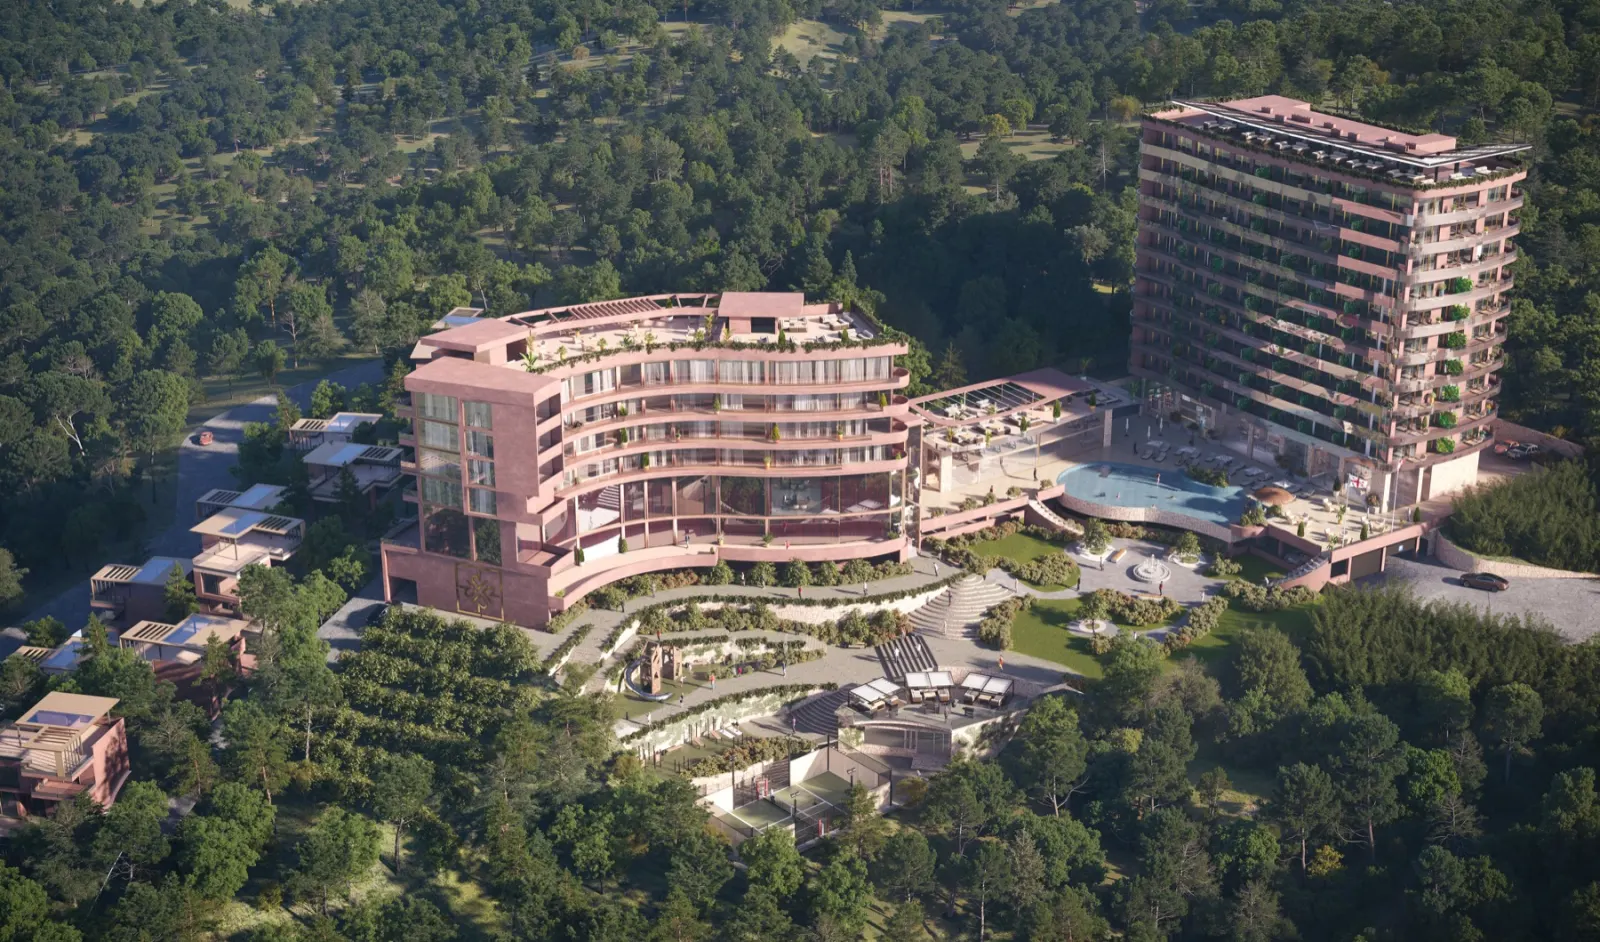
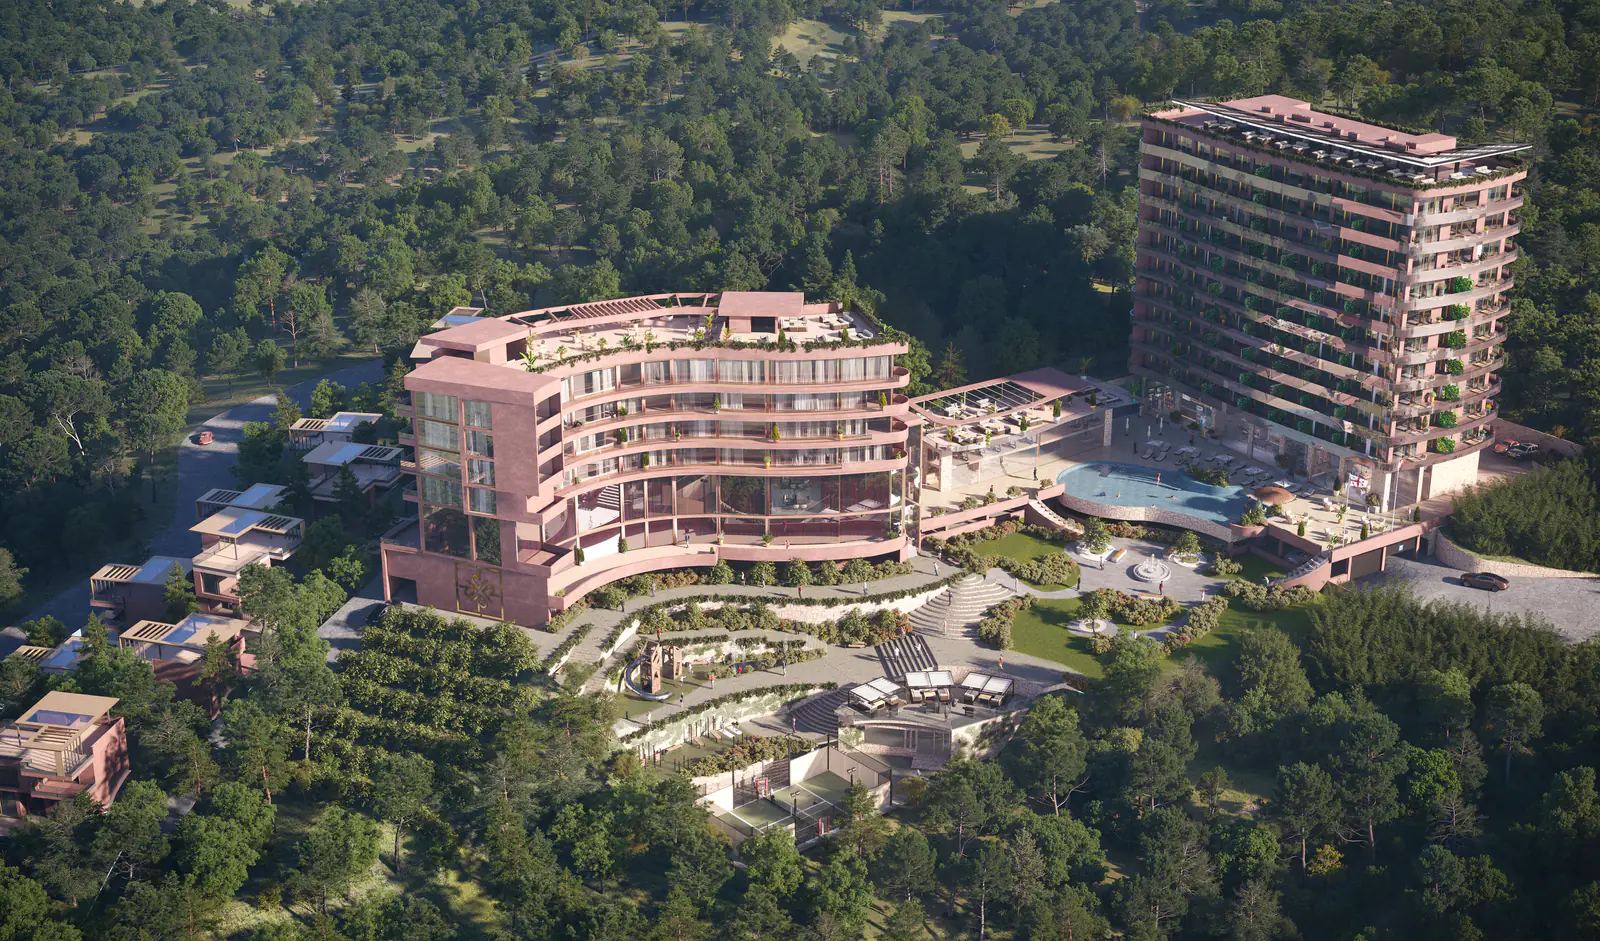
Rogantini: рендер из оригинала застройщика, на телефоне кадр с бассейном и башней

diff --git a/rogantini/index.html b/rogantini/index.html
@@ -234,7 +234,7 @@ window.addEventListener('load',function(){var k=document.createElement('script')
     <div class="sec-head"><div><span class="kicker">Цены · ноябрь 2026</span><h2 style="margin-left:-0.057em">6 пентхаусов на <span style="white-space:nowrap">11-м</span> этаже</h2></div>
       <p>Цены застройщика в евро, с ремонтом, мебелью и техникой</p></div>
     <article class="deal">
-      <div class="pic"><picture><img src="img/main.webp" srcset="img/main-800.webp 800w, img/main.webp 1600w" sizes="(max-width:900px) 200vw, 1200px" alt="Rogantini Swiss Village" width="1600" height="900" loading="lazy" decoding="async"></picture>
+      <div class="pic"><picture><source media="(max-width:900px)" srcset="img/main-m800.webp 800w, img/main-m1200.webp 1200w" sizes="100vw"><img src="img/main.webp" alt="Rogantini Swiss Village" width="1600" height="941" loading="lazy" decoding="async"></picture>
         <span class="tag"><i></i>Акция до 30 ноября</span>
         <div class="cap"><div><span class="dev">Rogantini</span><h3 style="margin-left:-0.126em">Паркинг в подарок</h3></div>
           <div class="off"><small>при взносе</small><b class="num">50%</b></div></div>
